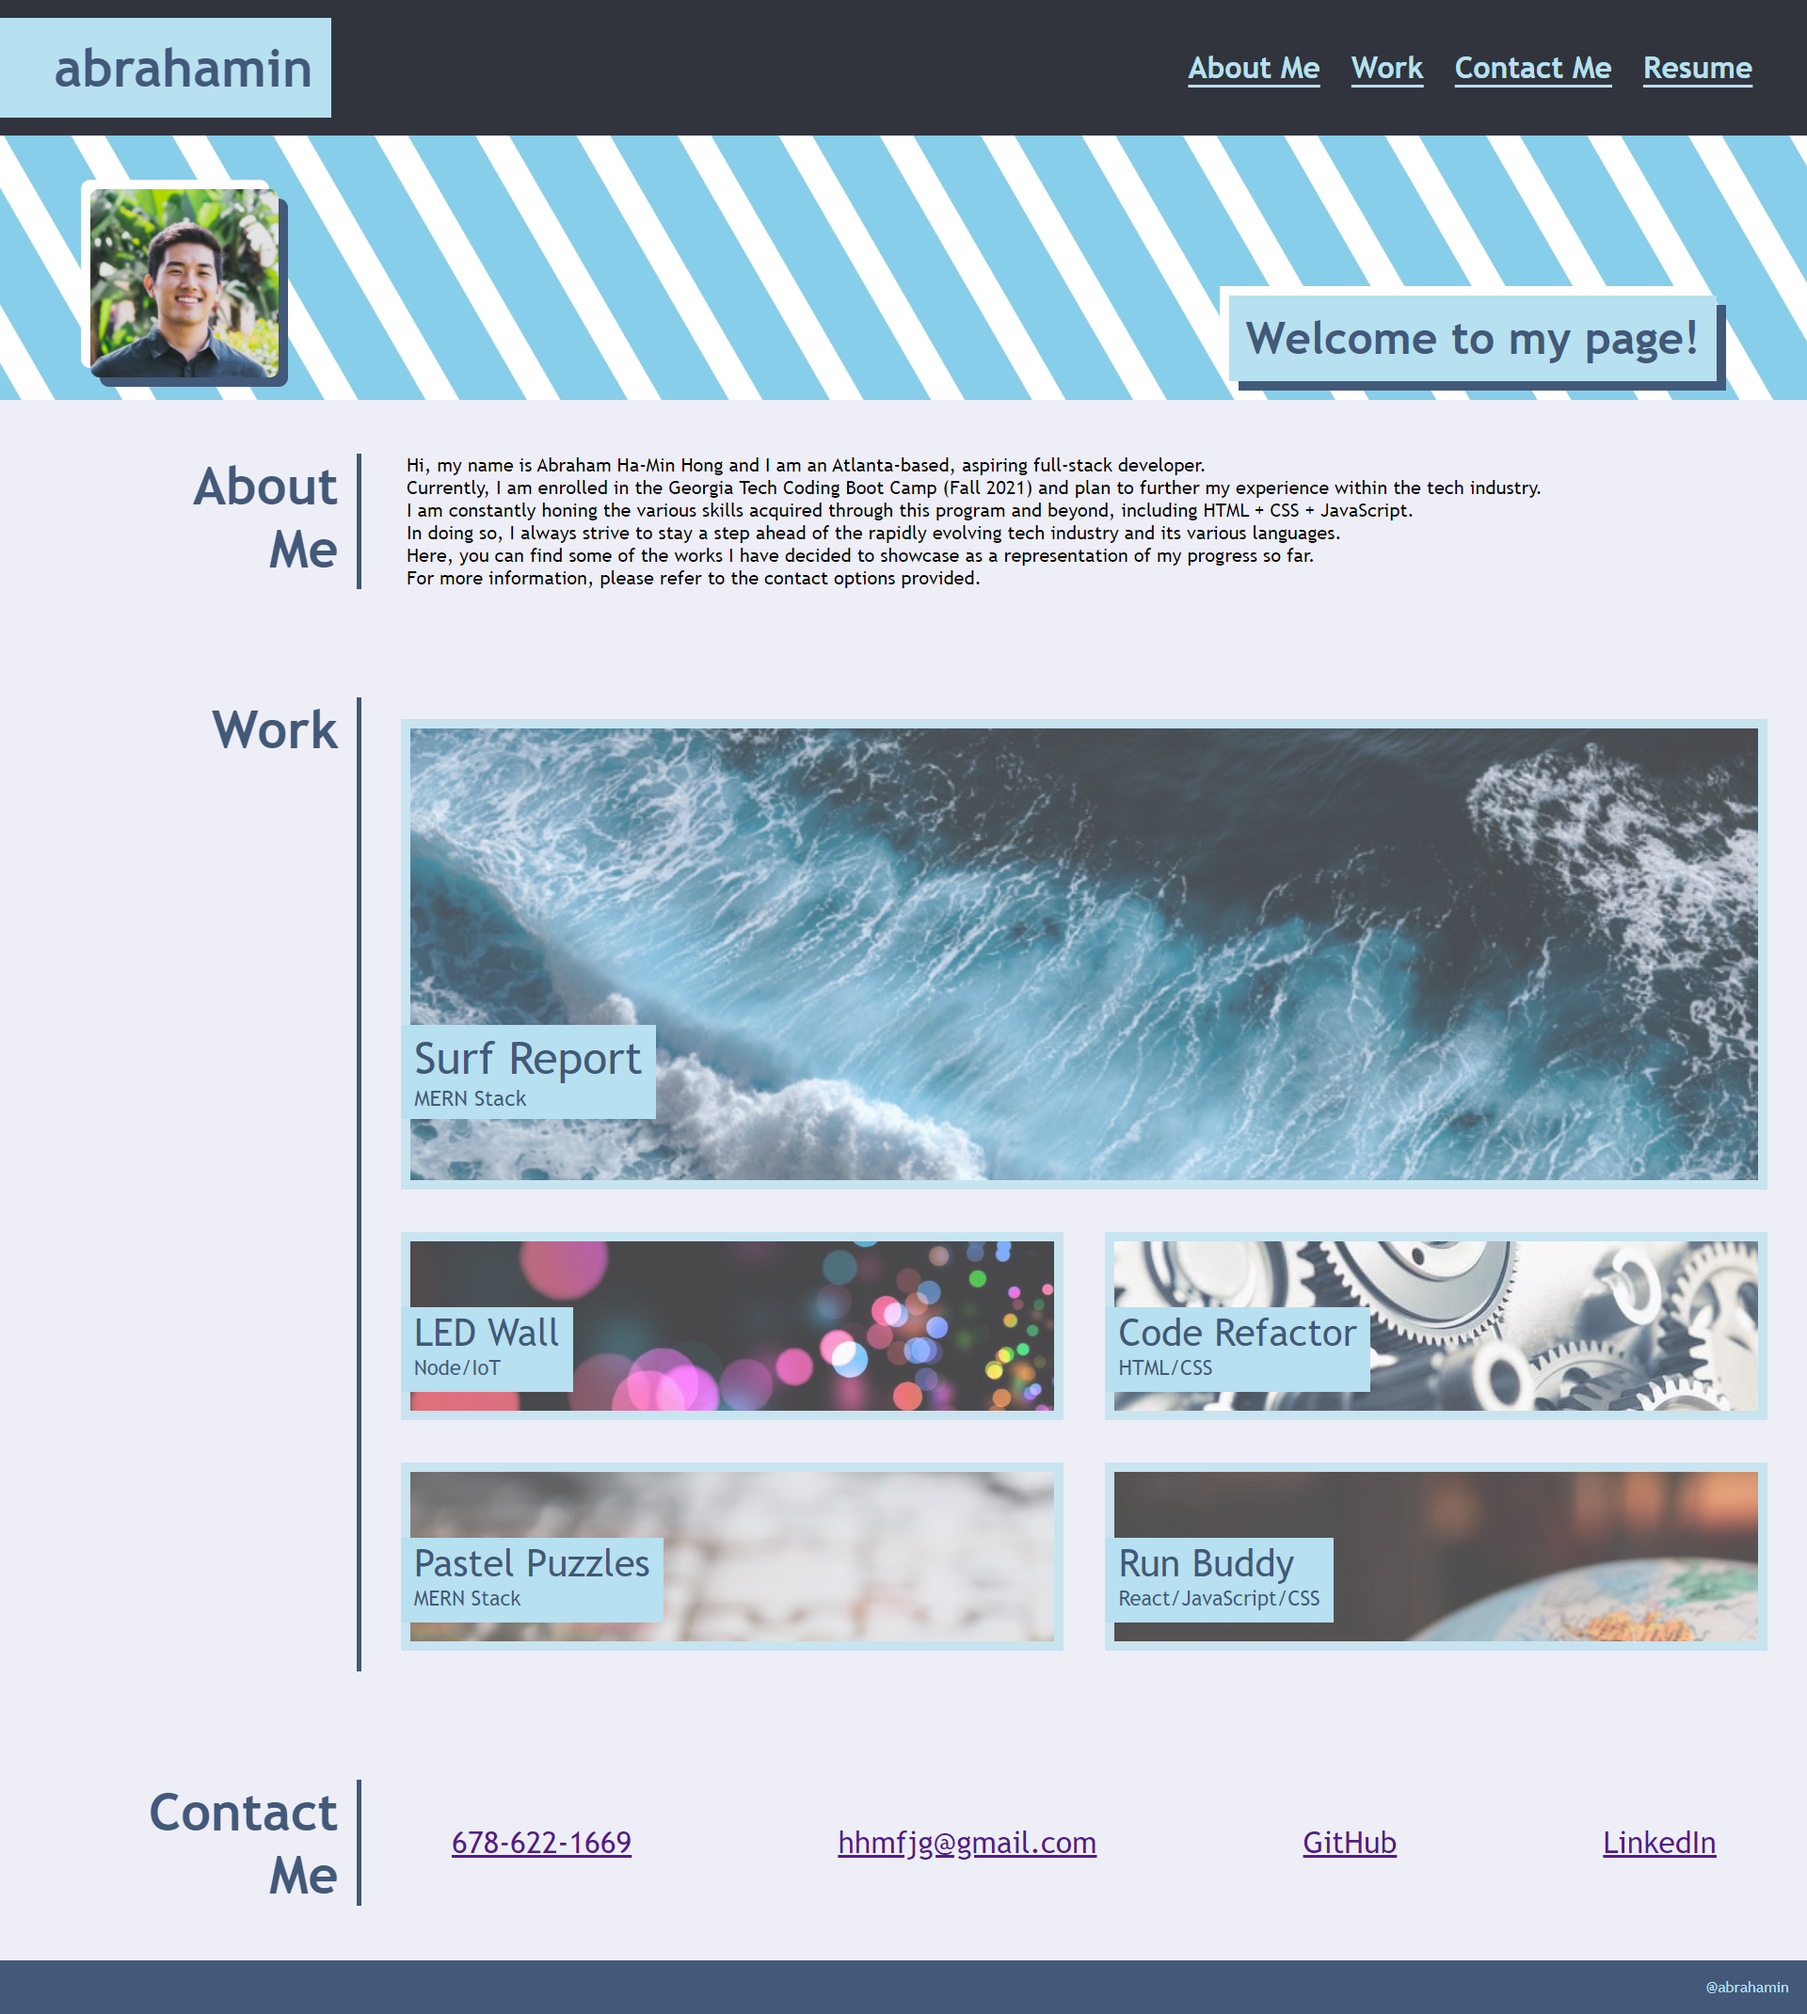
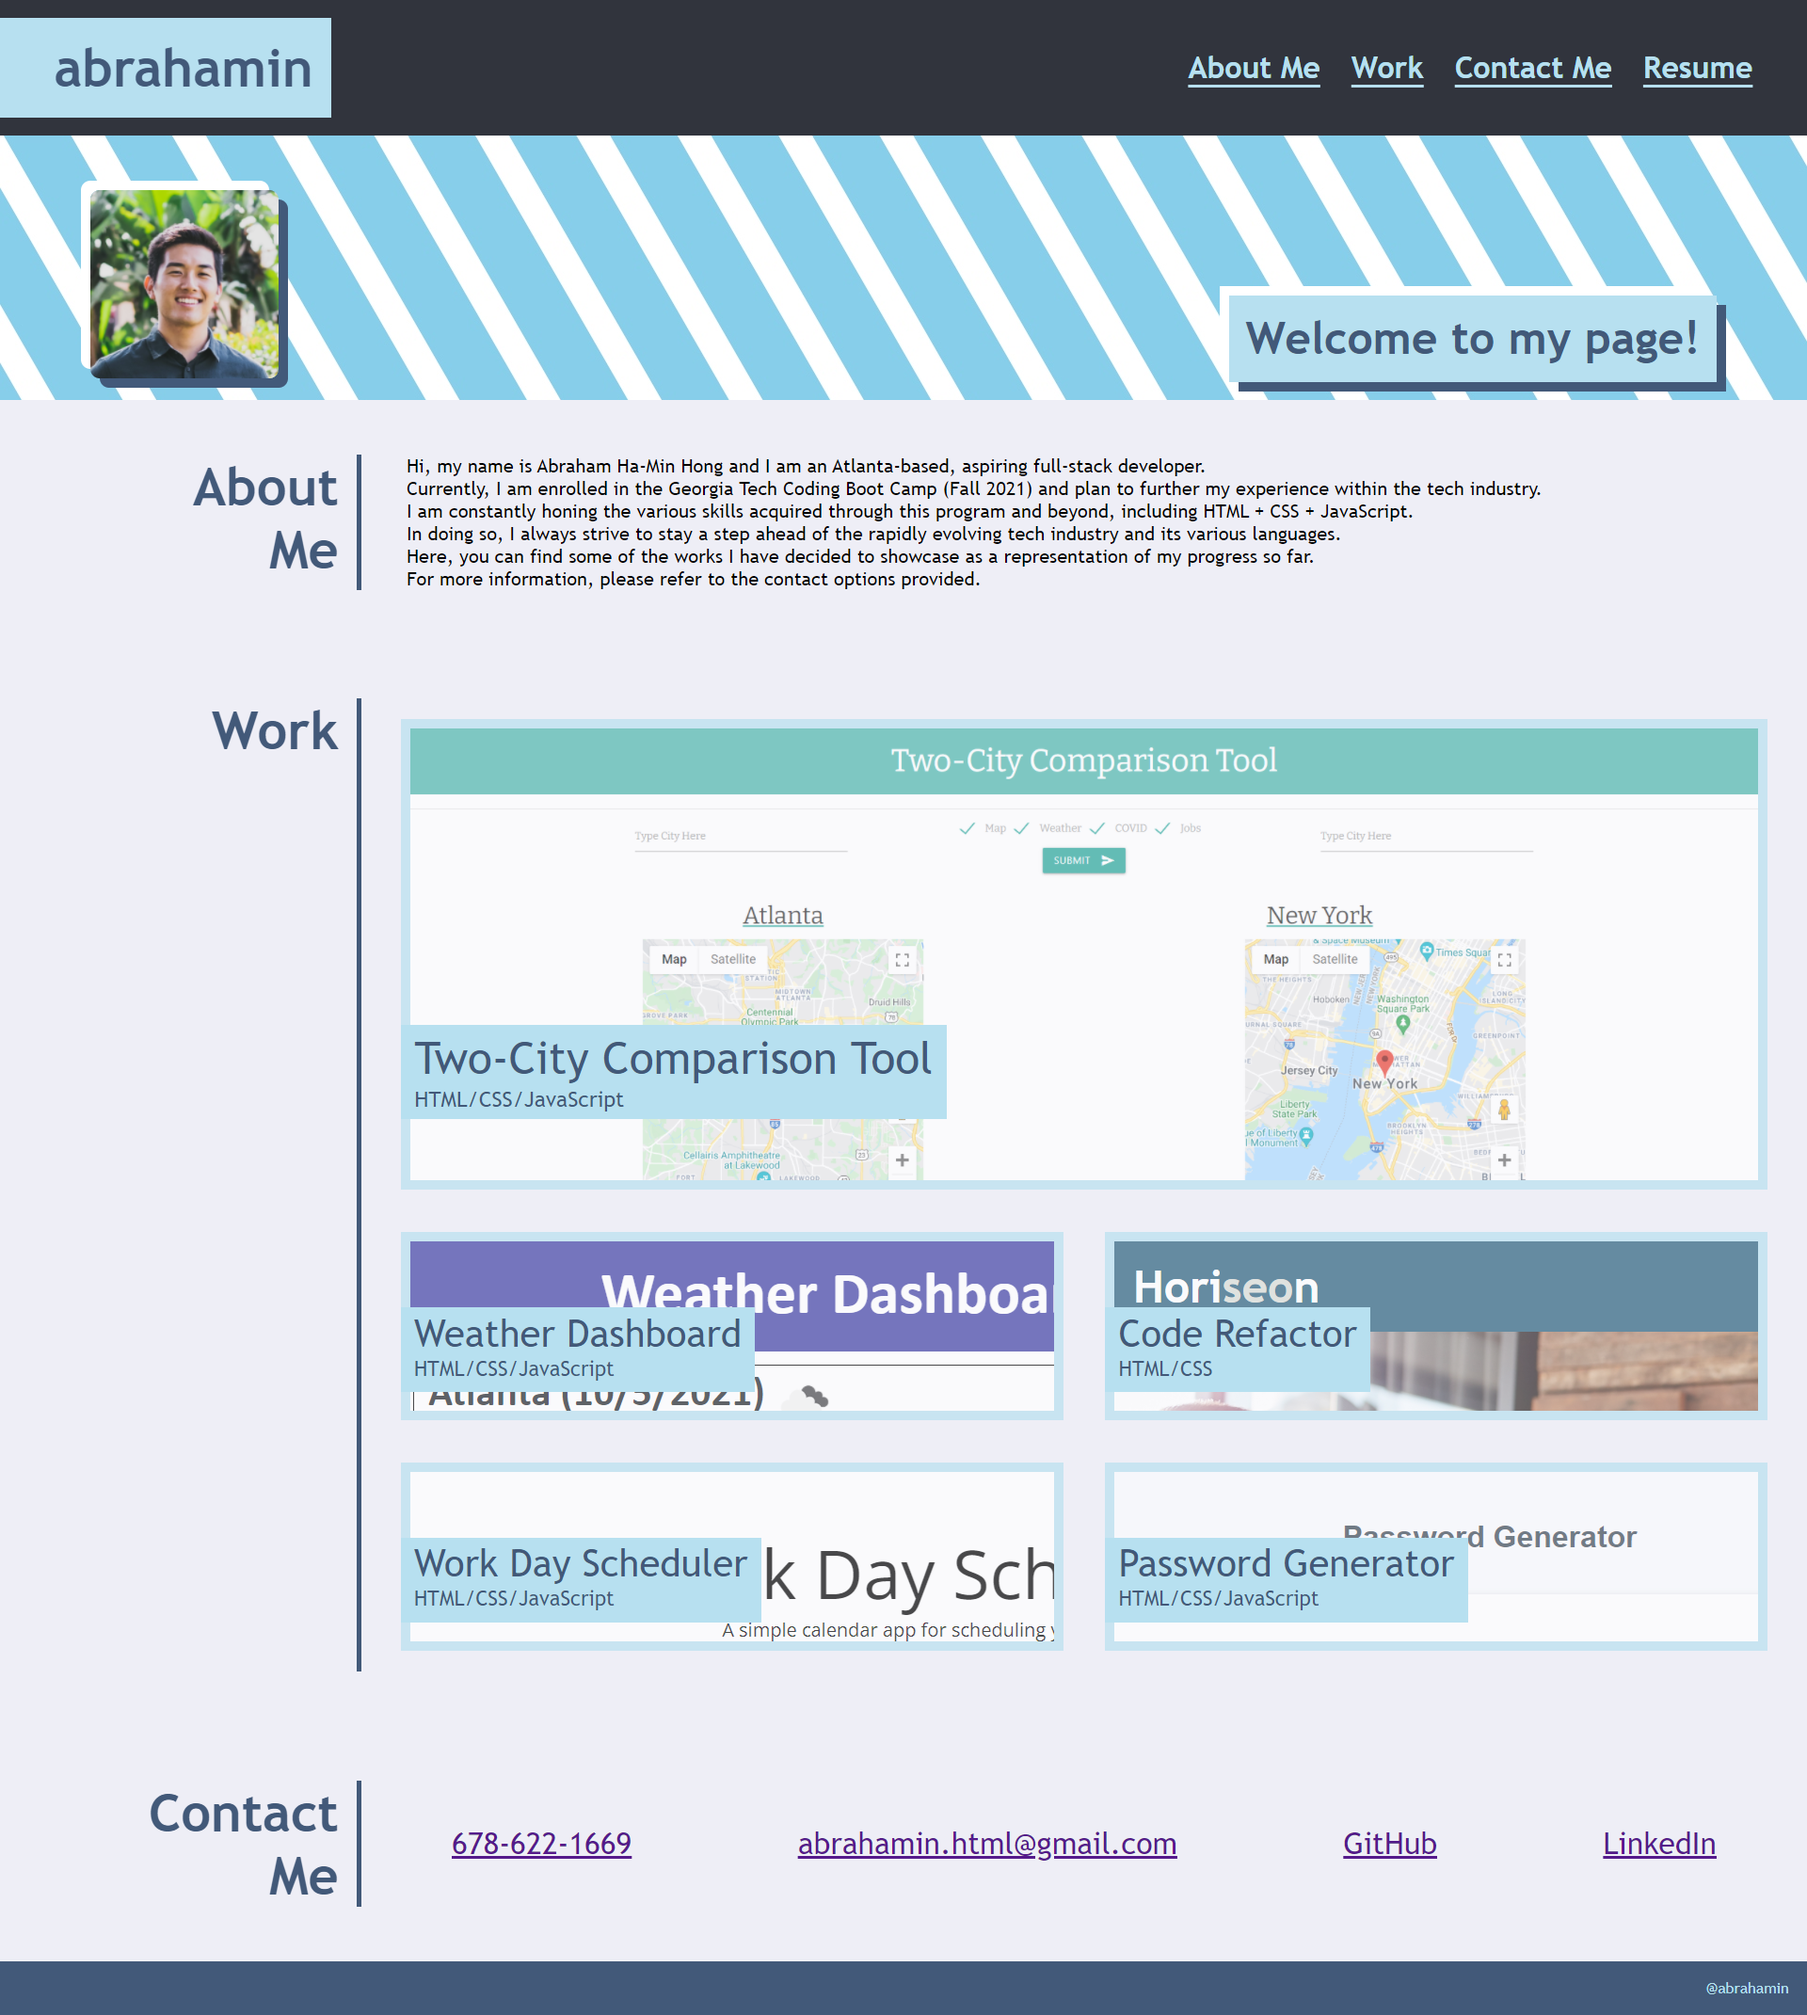
updated readme and screenshot

diff --git a/README.md b/README.md
@@ -11,10 +11,6 @@ In order to meet the Acceptance Criteria of the project:
 * a section with titled images of my work allows the viewer to access the deployed application upon click
 * resizing the page or viewing the site via mobile devices will be accounted for by a responsive layout
 
-```
-NOTE: As I do not have enough web applications to showcase for now, some of the included images and links serve as placeholders.
-```
-
 ## Screenshot
 
 ![Professional Portfolio](/assets/images/portfolio.png)
